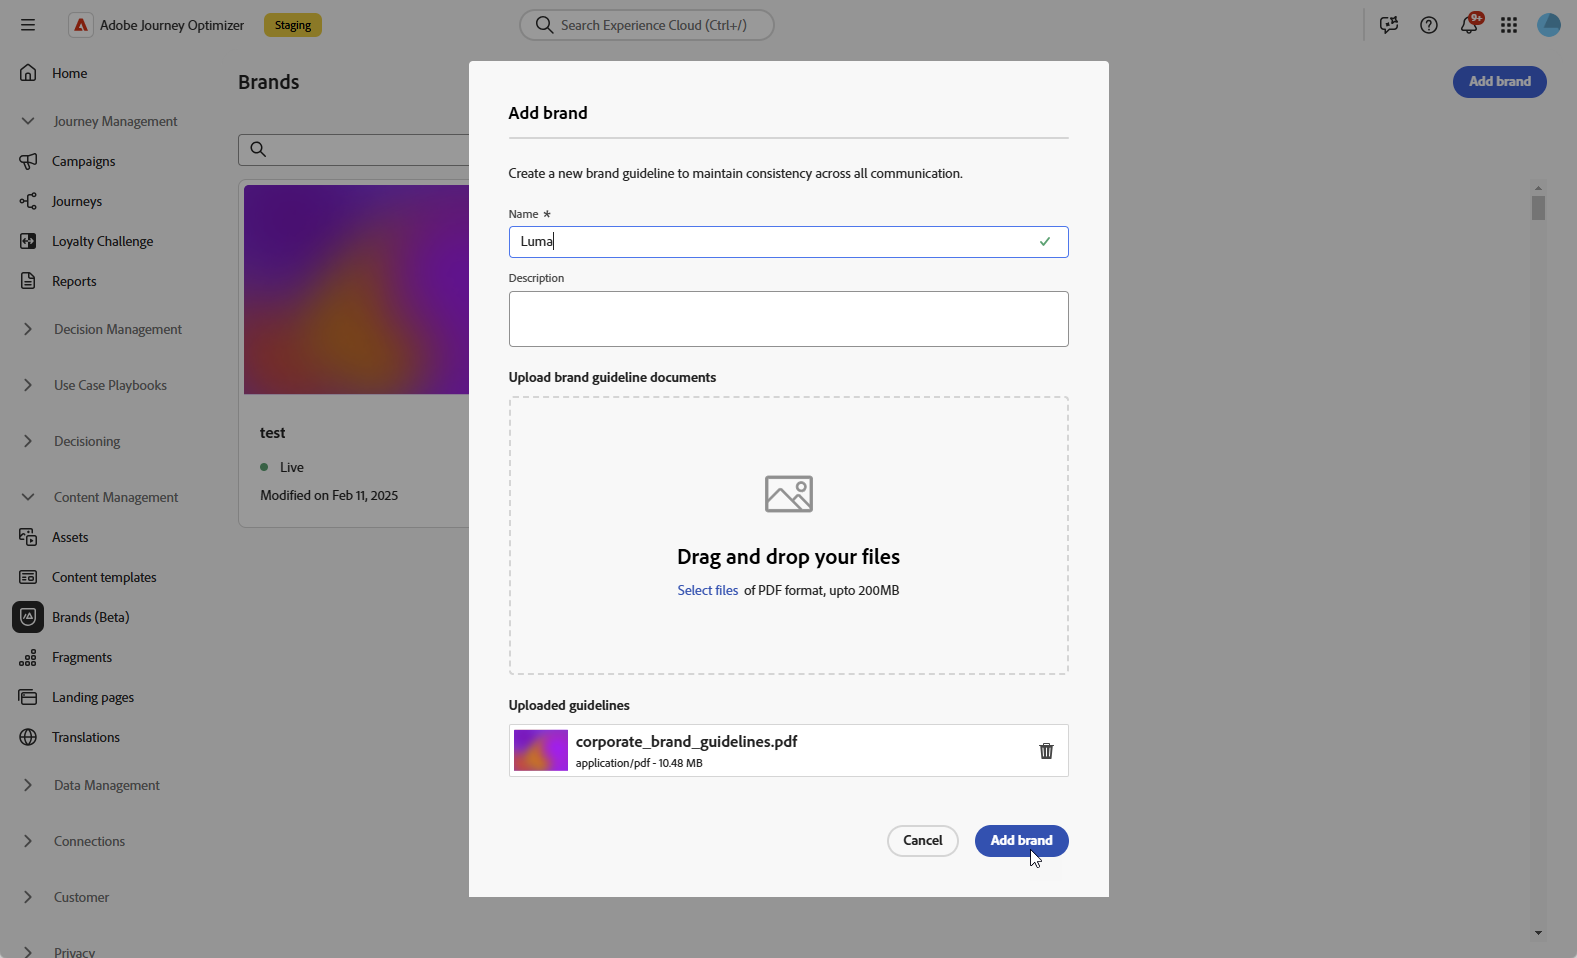
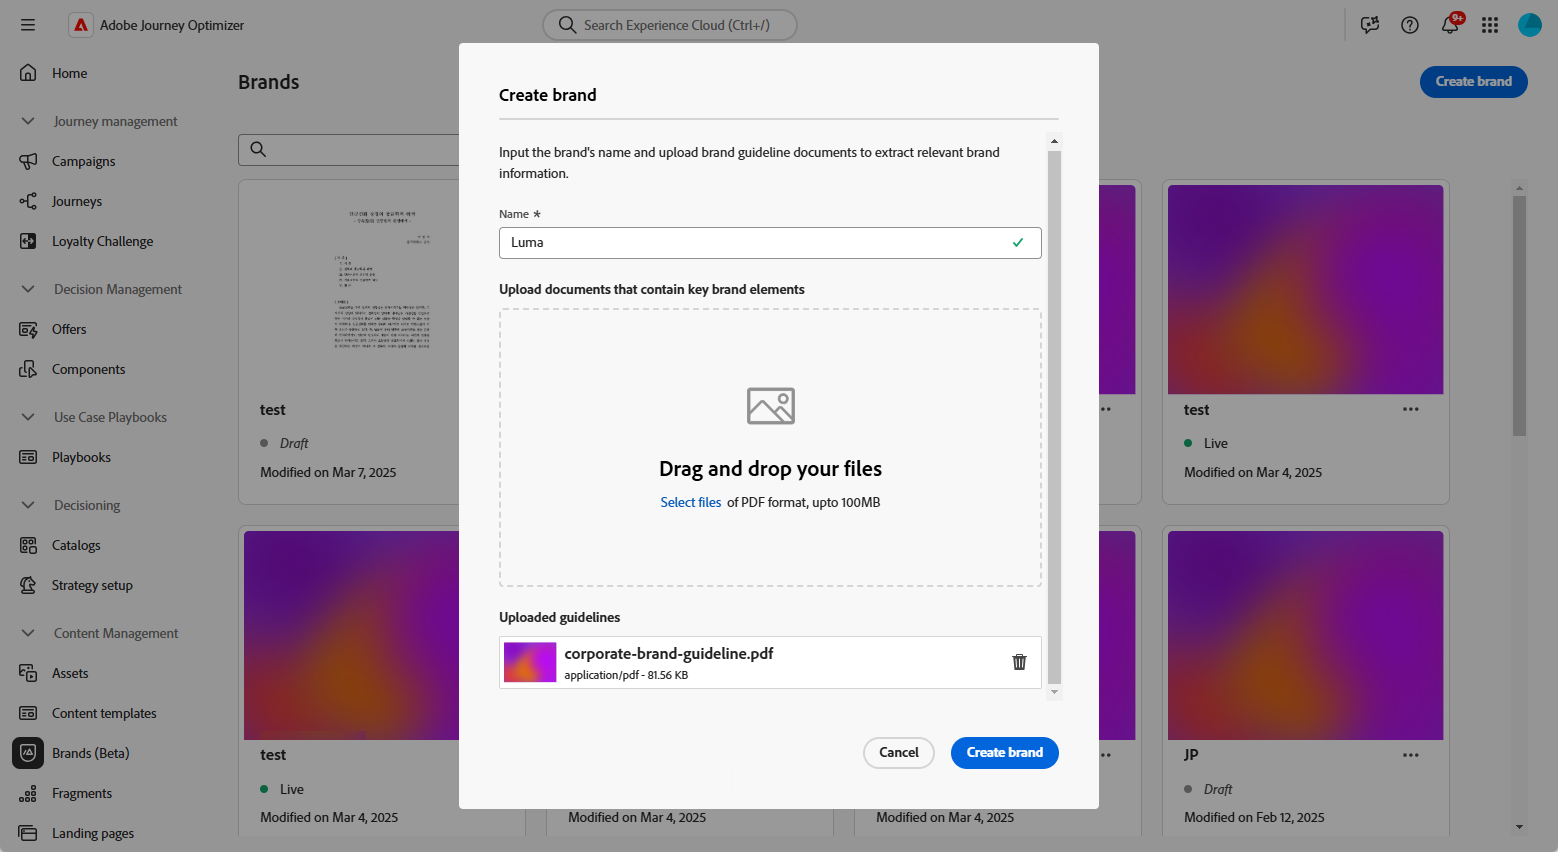
Update Brand beta

diff --git a/help/using/content-management/brands.md b/help/using/content-management/brands.md
@@ -33,9 +33,7 @@ exl-id: b1b7abbe-8600-4a8d-b0b5-0dbd49abc275
 
 Brand guidelines are a detailed set of rules and standards that establish a brand's visual and verbal identity. They act as a reference to maintain consistent brand representation across all marketing and communication platforms.
 
-<!--Upload feature currently behind feature flag--
-
-In [!DNL Journey Optimizer], you now have the option to manually input and organize your brand details or upload brand guideline documents for automatic information extraction.-->
+In [!DNL Journey Optimizer], you now have the option to manually input and organize your brand details or upload brand guideline documents for automatic information extraction.
 
 ## Access brands {#generative-access}
 
@@ -72,21 +70,13 @@ To access the **[!UICONTROL Brands]** menu in [!DNL Adobe Journey Optimizer], us
 >title="Create your brand"
 >abstract="Enter your brand name and upload your brand guidelines file. The tool will automatically extract key details, making it easier to maintain your brand's identity."
 
-To create and manage your brand guidelines, follow the steps below.
-
-<!--Upload feature currently behind feature flag--
-
-To create and manage your Brand guideline, you can either enter the details yourself, or upload your brand guidelines document to have the information extracted automatically:-->
+To create and manage your brand guideline, you can either enter the details yourself, or upload your brand guidelines document to have the information extracted automatically:
 
 1. In the **[!UICONTROL Brands]** menu, click **[!UICONTROL Create brand]**.
 
     ![](assets/brands-1.png)
 
-1. Enter a **[!UICONTROL Name]** for your brand<!--and a **[!UICONTROL Description]** to your brand guideline-->.
-
-    ![](assets/brands-2-temp.png)
-
-<!--Upload feature currently behind feature flag so hidden from doc - should be available again by EOM (Feb)--
+1. Enter a **[!UICONTROL Name]** for your brand.
 
 1. Drag and drop or select your file to upload your brand guidelines and extract automatically relevant brand information. Click **[!UICONTROL Create brand]**.
 
@@ -95,8 +85,6 @@ To create and manage your Brand guideline, you can either enter the details your
     ![](assets/brands-2.png)
 
 1. Your Content and visual creation standards are now automatically populated. Browse through the different tabs to adapt the information as needed.
-
--->
 
 1. From the **[!UICONTROL Writing Style]** tab, click ![](assets/do-not-localize/Smock_Add_18_N.svg) to add a guideline or exclusion, including examples.
 
